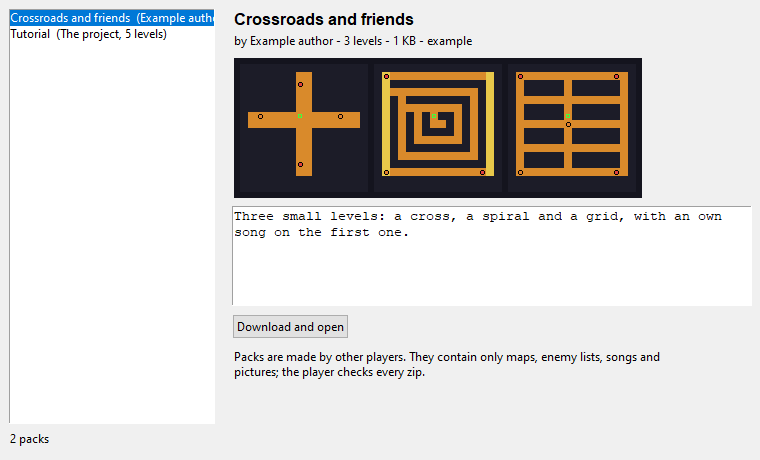
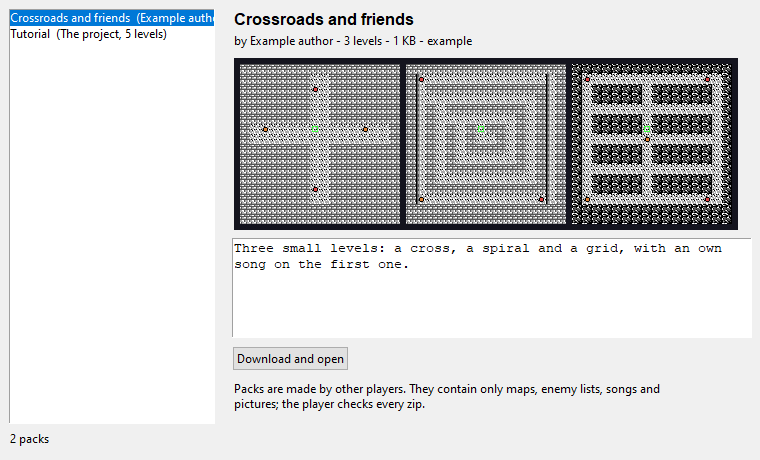
README screenshots: community browser previews with the real room tiles; screenshot tool captures the window itself (PrintWindow)

Changed region(s): [[0.3026, 0.1217, 0.9987, 0.5783], [0.3026, 0.6696, 0.8776, 0.913]]

diff --git a/tools/readme_screenshots.py b/tools/readme_screenshots.py
@@ -29,11 +29,36 @@ def pump(n=10):
 
 
 def grab(win, name):
+    """the window's own picture (PrintWindow): other windows on the screen, the desktop or anything in front of it can never end up in the screenshot"""
+    import ctypes
+    from ctypes import wintypes
+    from PIL import Image
     pump(6)
-    win.lift()
     win.update()
-    x, y, w, h = win.winfo_rootx(), win.winfo_rooty(), win.winfo_width(), win.winfo_height()
-    ImageGrab.grab((x, y, x + w, y + h)).save(os.path.join(OUT, name))
+    user32, gdi32 = ctypes.windll.user32, ctypes.windll.gdi32
+    hwnd = user32.GetAncestor(win.winfo_id(), 2)                  # GA_ROOT: the top level window
+    rc = wintypes.RECT()
+    user32.GetWindowRect(hwnd, ctypes.byref(rc))
+    w, h = rc.right - rc.left, rc.bottom - rc.top
+    hdc = user32.GetWindowDC(hwnd)
+    mem = gdi32.CreateCompatibleDC(hdc)
+    bmp = gdi32.CreateCompatibleBitmap(hdc, w, h)
+    gdi32.SelectObject(mem, bmp)
+    user32.PrintWindow(hwnd, mem, 2)                              # PW_RENDERFULLCONTENT
+    class BIH(ctypes.Structure):
+        _fields_ = [("size", wintypes.DWORD), ("w", wintypes.LONG), ("h", wintypes.LONG), ("planes", wintypes.WORD), ("bits", wintypes.WORD),
+                    ("comp", wintypes.DWORD), ("img", wintypes.DWORD), ("x", wintypes.LONG), ("y", wintypes.LONG), ("used", wintypes.DWORD), ("imp", wintypes.DWORD)]
+    bi = BIH(ctypes.sizeof(BIH), w, -h, 1, 32, 0, 0, 0, 0, 0, 0)
+    buf = ctypes.create_string_buffer(w * h * 4)
+    gdi32.GetDIBits(mem, bmp, 0, h, buf, ctypes.byref(bi), 0)
+    gdi32.DeleteObject(bmp)
+    gdi32.DeleteDC(mem)
+    user32.ReleaseDC(hwnd, hdc)
+    full = Image.frombuffer("RGBA", (w, h), buf, "raw", "BGRA", 0, 1).convert("RGB")
+    pt = wintypes.POINT(0, 0)
+    user32.ClientToScreen(win.winfo_id(), ctypes.byref(pt))       # only the client area: the title bar and frame are left out
+    cx, cy = pt.x - rc.left, pt.y - rc.top
+    full.crop((cx, cy, cx + win.winfo_width(), cy + win.winfo_height())).save(os.path.join(OUT, name))
     print("wrote", name)
 
 
@@ -74,6 +99,7 @@ grab(root, "editor_enemies.png")
 
 # 3. the community browser, read from a local test folder (made by tools/community.py)
 import shutil, tempfile
+community.PREVIEW_TILES = le.Tiles()                     # the previews use the real room tiles when the game data is there
 tmp = tempfile.mkdtemp()
 sub = os.path.join(tmp, "community", "packs")
 os.makedirs(sub)

diff --git a/tools/community.py b/tools/community.py
@@ -102,8 +102,16 @@ FLAT = [(28, 28, 40), (232, 200, 74), (217, 138, 43), (106, 176, 232)]
 WAVE = [(224, 64, 64), (224, 128, 48), (208, 192, 48), (64, 176, 64), (64, 128, 224), (160, 80, 208)]
 
 
-def preview_png(pack, path, per_row=3, cell=8):
+PREVIEW_TILES = None            # set to a level_editor.Tiles (with the game data found) to draw the previews with the real room tiles instead of flat colours
+
+
+def preview_png(pack, path, per_row=3, cell=8, tiles=None):
     from PIL import Image, ImageDraw
+    tiles = tiles or PREVIEW_TILES
+    if tiles is not None and not tiles.ok:
+        tiles = None
+    if tiles is not None:
+        cell = 10
     levels = pack.levels[:6]
     size = 16 * cell
     cols = min(per_row, max(1, len(levels)))
@@ -112,9 +120,13 @@ def preview_png(pack, path, per_row=3, cell=8):
     d = ImageDraw.Draw(img)
     for i, lv in enumerate(levels):
         ox, oy = 6 + (i % cols) * (size + 6), 6 + (i // cols) * (size + 6)
+        look = lv.theme if lv.theme is not None else (16 if i == 32 else i & 15)
         for r in range(16):
             for c in range(16):
-                d.rectangle([ox + c * cell, oy + r * cell, ox + c * cell + cell - 1, oy + r * cell + cell - 1], fill=FLAT[lv.map[r][c]])
+                if tiles is not None:
+                    img.paste(tiles.cell_image(look, lv.map[r][c], cell), (ox + c * cell, oy + r * cell))
+                else:
+                    d.rectangle([ox + c * cell, oy + r * cell, ox + c * cell + cell - 1, oy + r * cell + cell - 1], fill=FLAT[lv.map[r][c]])
         for w, spawns in enumerate(lv.waves):
             for kind, x, y, delay in spawns:
                 col, row = lp.cell_of(x, y)

diff --git a/tools/level_editor.py b/tools/level_editor.py
@@ -71,10 +71,8 @@ class Tiles:
                 px[x, y] = SHADES[((d[y * 2 + 1] >> (7 - x)) & 1) << 1 | ((d[y * 2] >> (7 - x)) & 1)]
         return im
 
-    def cell(self, theme, value, size):
-        key = (theme, value, size)
-        if key in self.cache:
-            return self.cache[key]
+    def cell_image(self, theme, value, size):
+        """the cell as a picture (PIL), size pixels square"""
         look = 16 if theme == 16 else theme & 15
         meta = self.word(self.sym["RoomMetatileTable"][1] + 2 * look)
         setbase = self.word(self.sym["RoomSpriteSetTable"][1] + 2 * look)
@@ -82,7 +80,13 @@ class Tiles:
         im = Image.new("L", (16, 16))
         for i, t in enumerate(ids):
             im.paste(self.tile(t, setbase), ((i % 2) * 8, (i // 2) * 8))
-        photo = ImageTk.PhotoImage(im.resize((size, size), Image.NEAREST).convert("RGB"))
+        return im.resize((size, size), Image.NEAREST).convert("RGB")
+
+    def cell(self, theme, value, size):
+        key = (theme, value, size)
+        if key in self.cache:
+            return self.cache[key]
+        photo = ImageTk.PhotoImage(self.cell_image(theme, value, size))
         self.cache[key] = photo
         return photo
 
